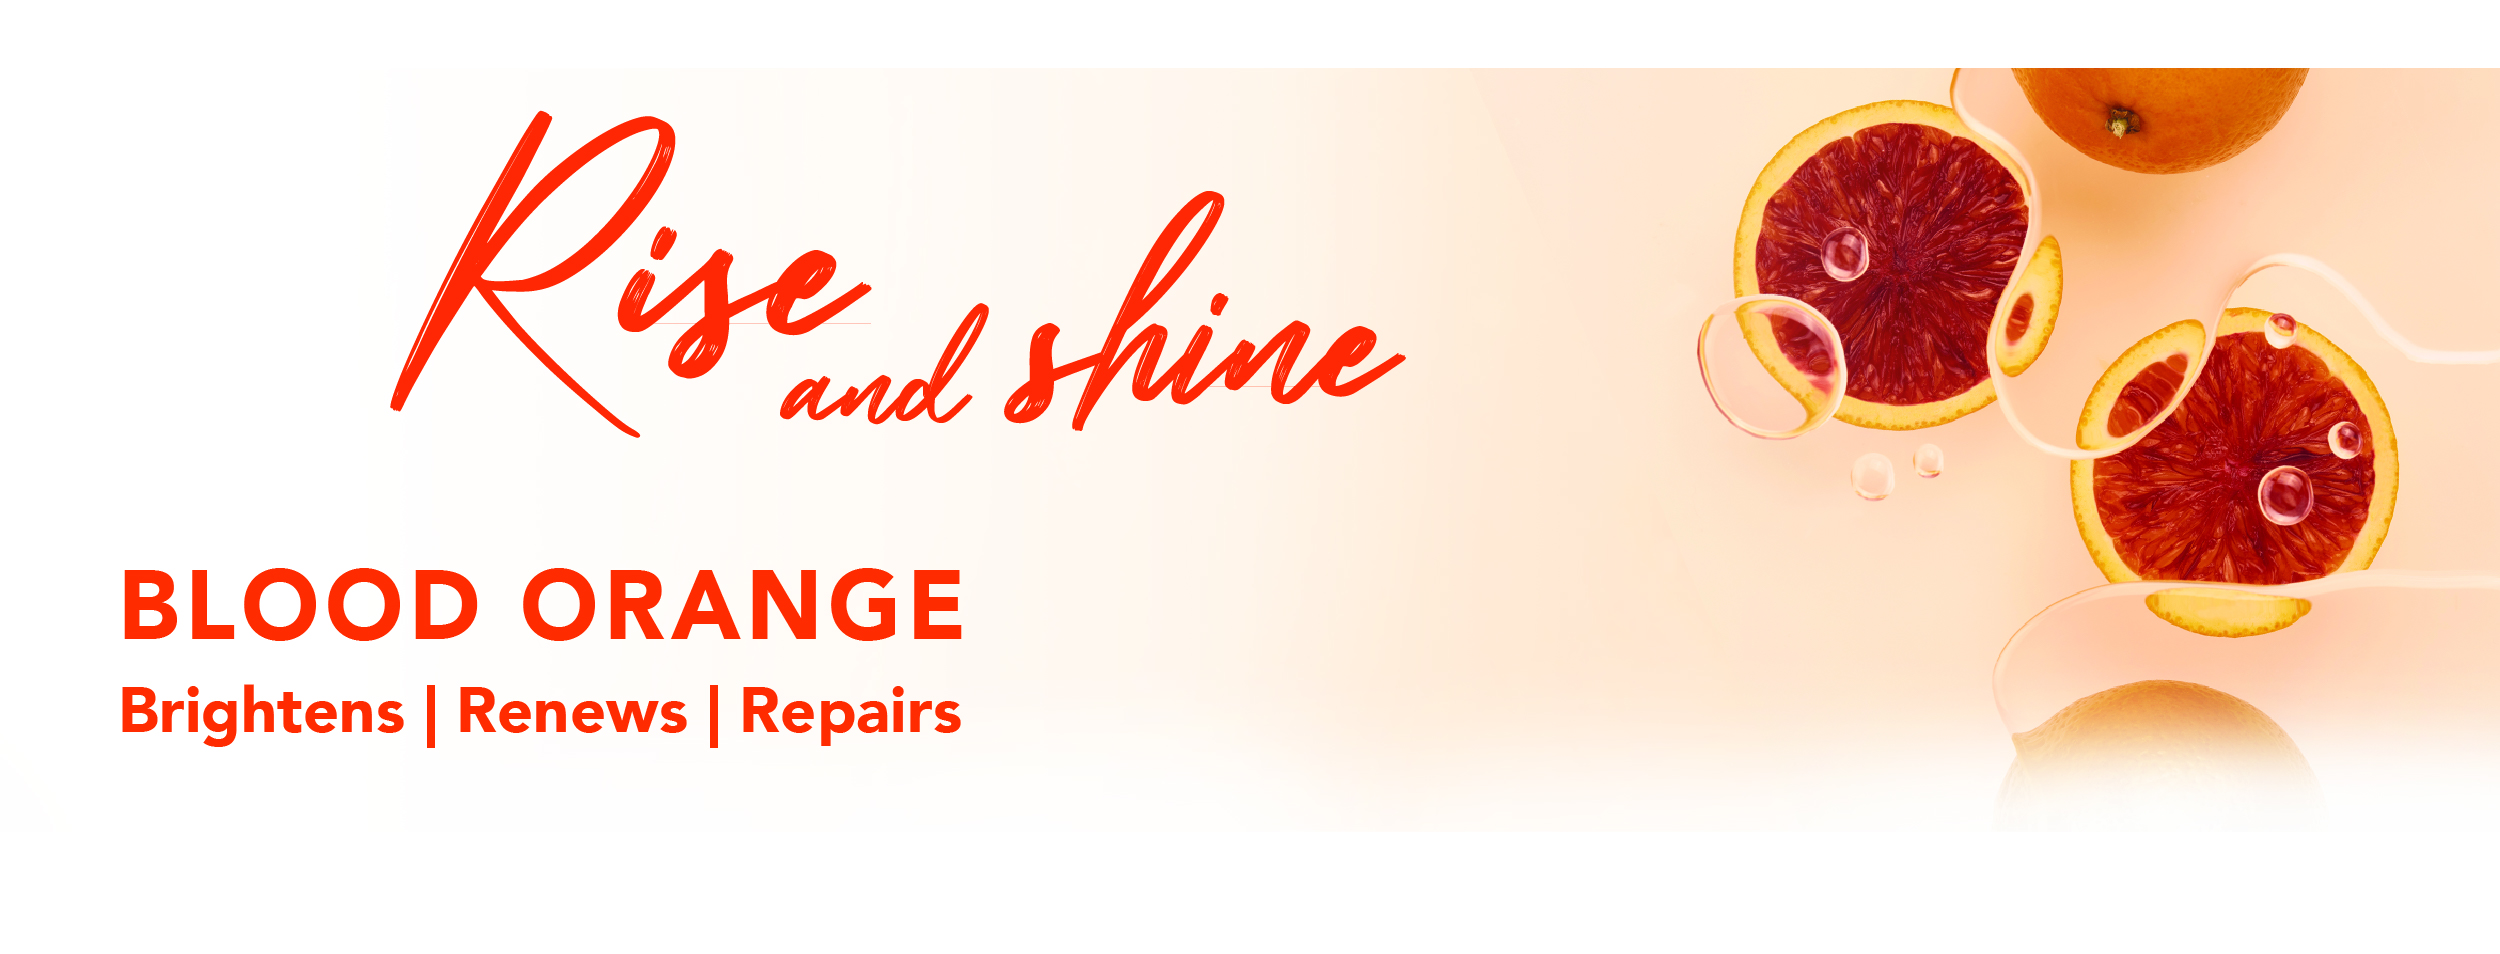
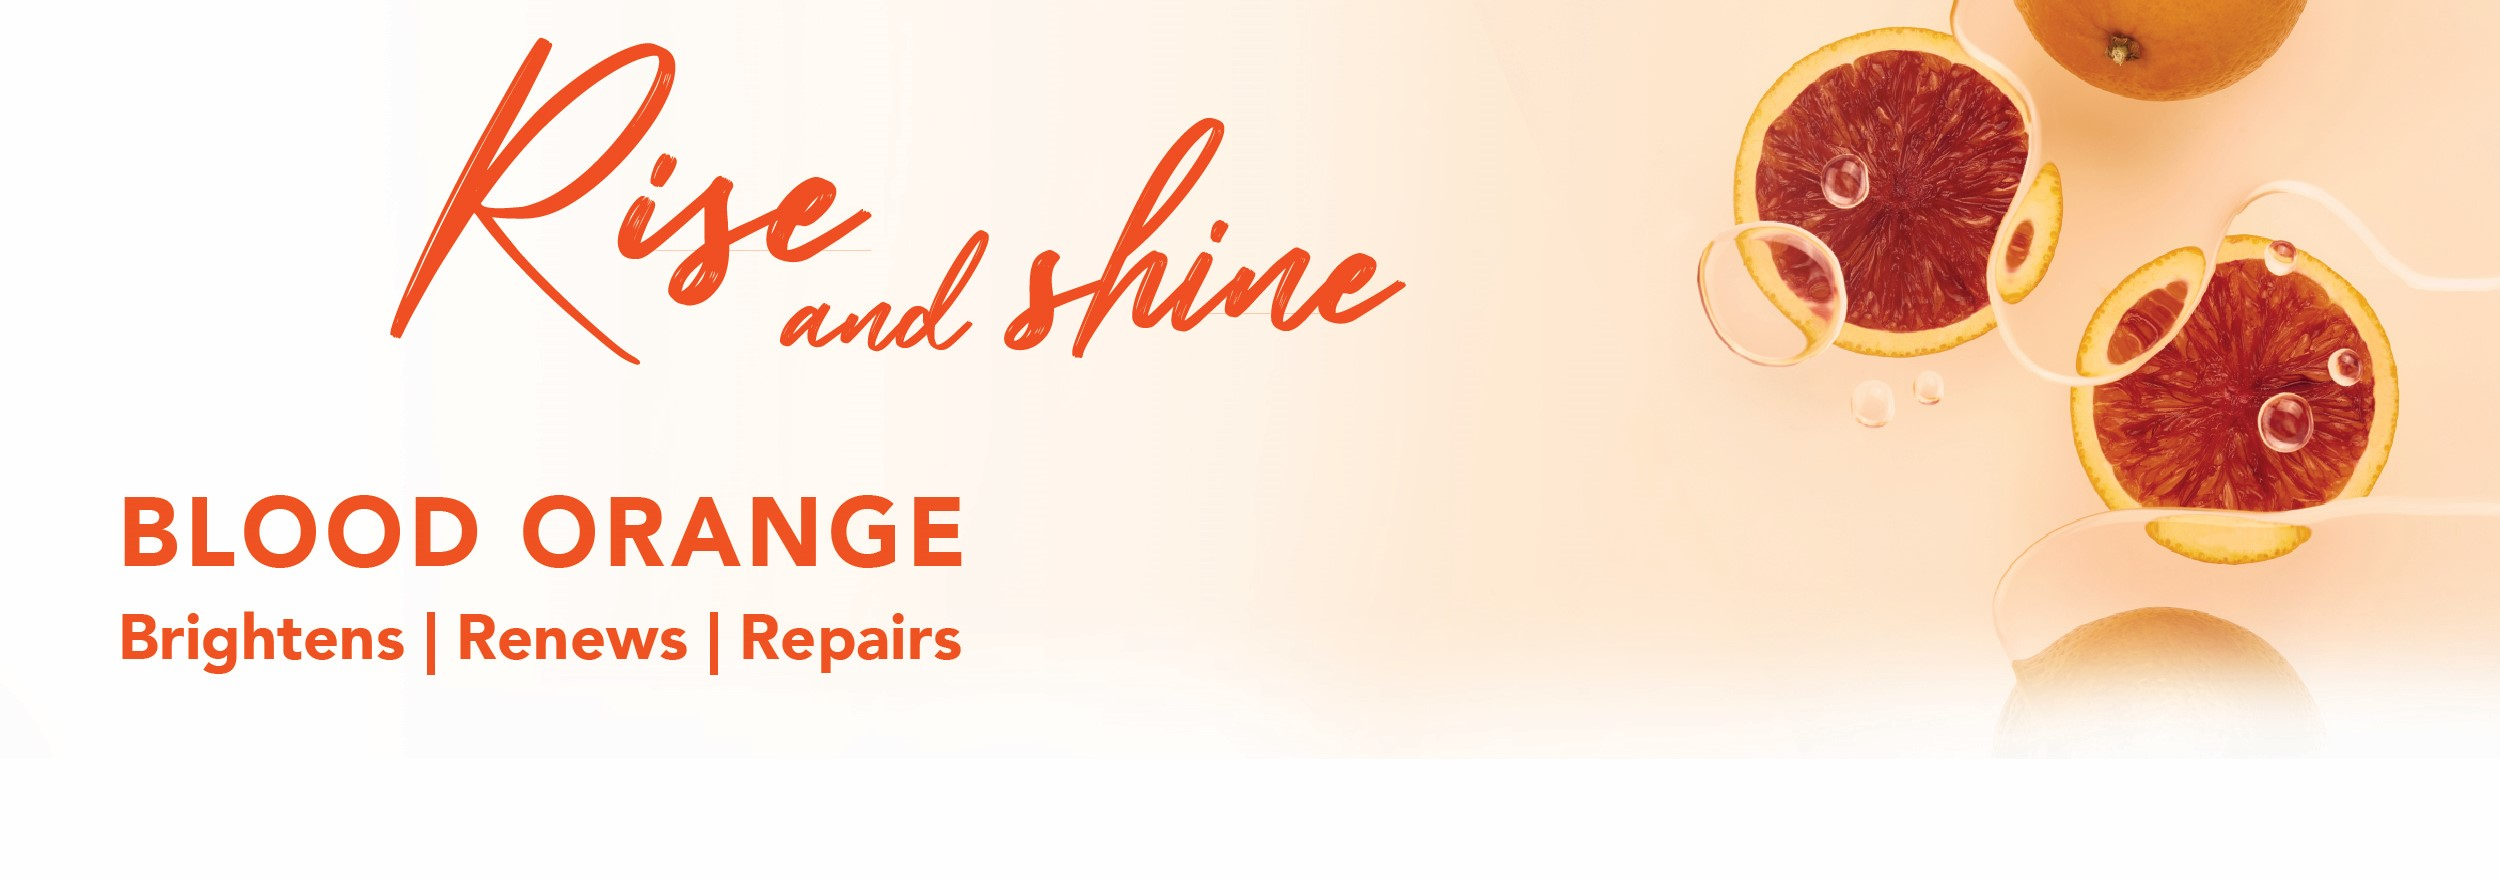
change resolved

Changed region(s): [[0.4992, 0.0, 1.0, 0.7968], [0.156, 0.0306, 0.5616, 0.4597], [0.0312, 0.5516, 0.4056, 0.7968]]

diff --git a/first/index.html b/first/index.html
@@ -1,7 +1,7 @@
 <style>
     .aplus-container {
-        display: flex;
-        flex-direction: column;
+        /* display: flex;
+        flex-direction: column; */
         max-width: 770px; 
         margin: 0 auto; 
         width: 100%;
@@ -18,7 +18,7 @@
 
 <div class="aplus-container">
     <img src="./assets/Asset 4@300x-100.jpg" alt="Image 1" />
-    <img src="./assets/Asset 2@300x-100-sized.jpg" alt="Image 2" />
+    <img src="./assets/Asset 2@300x-100.jpg" alt="Image 2" />
     <img src="./assets/Asset 5@300x-100.jpg" alt="Image 3" />
     <img src="./assets/Asset 3@300x-100.jpg" alt="Image 4" />
 </div>
